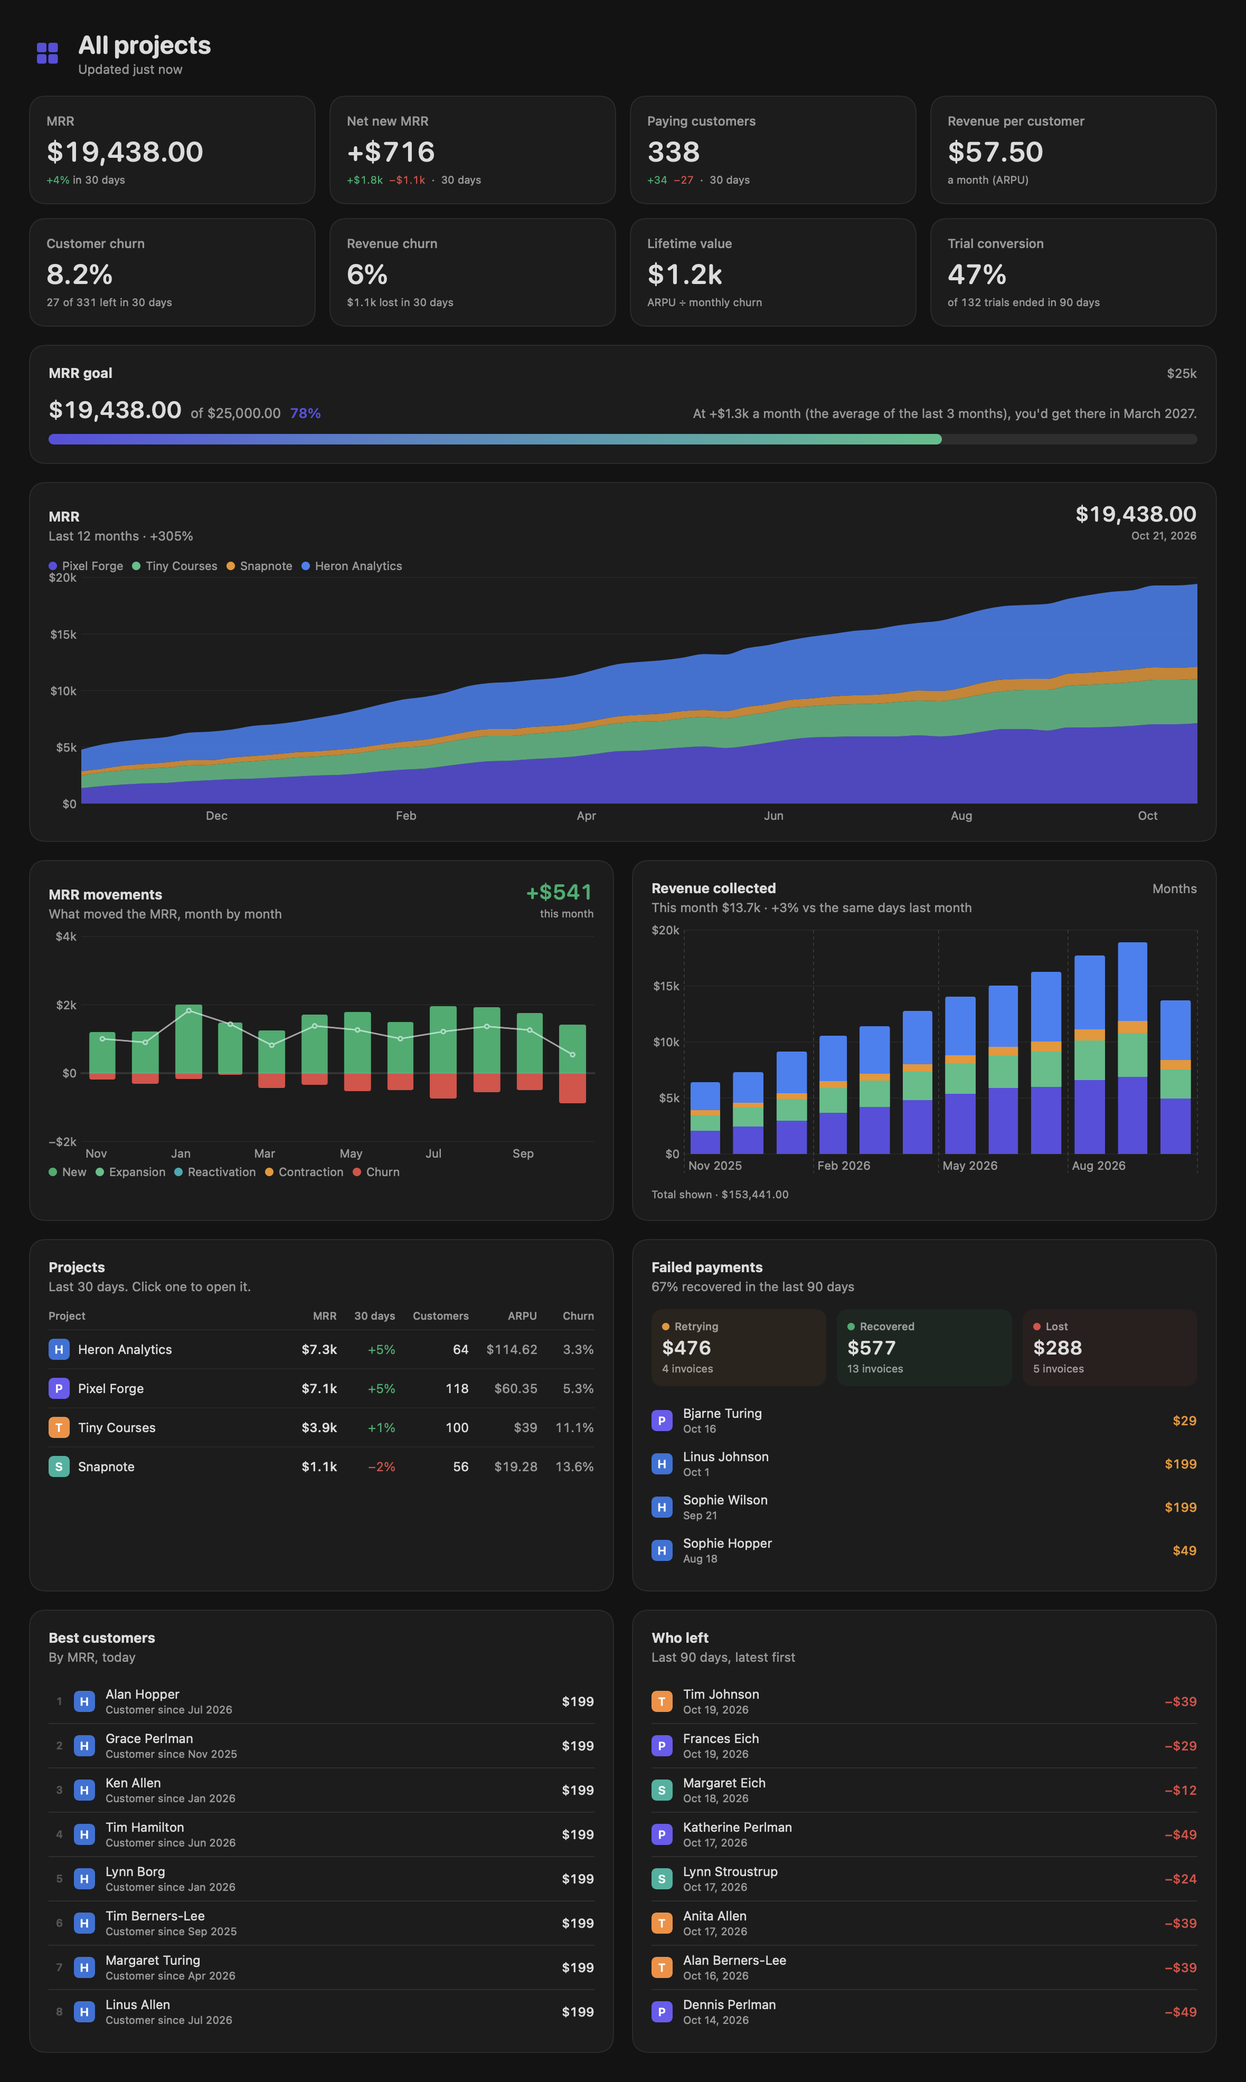
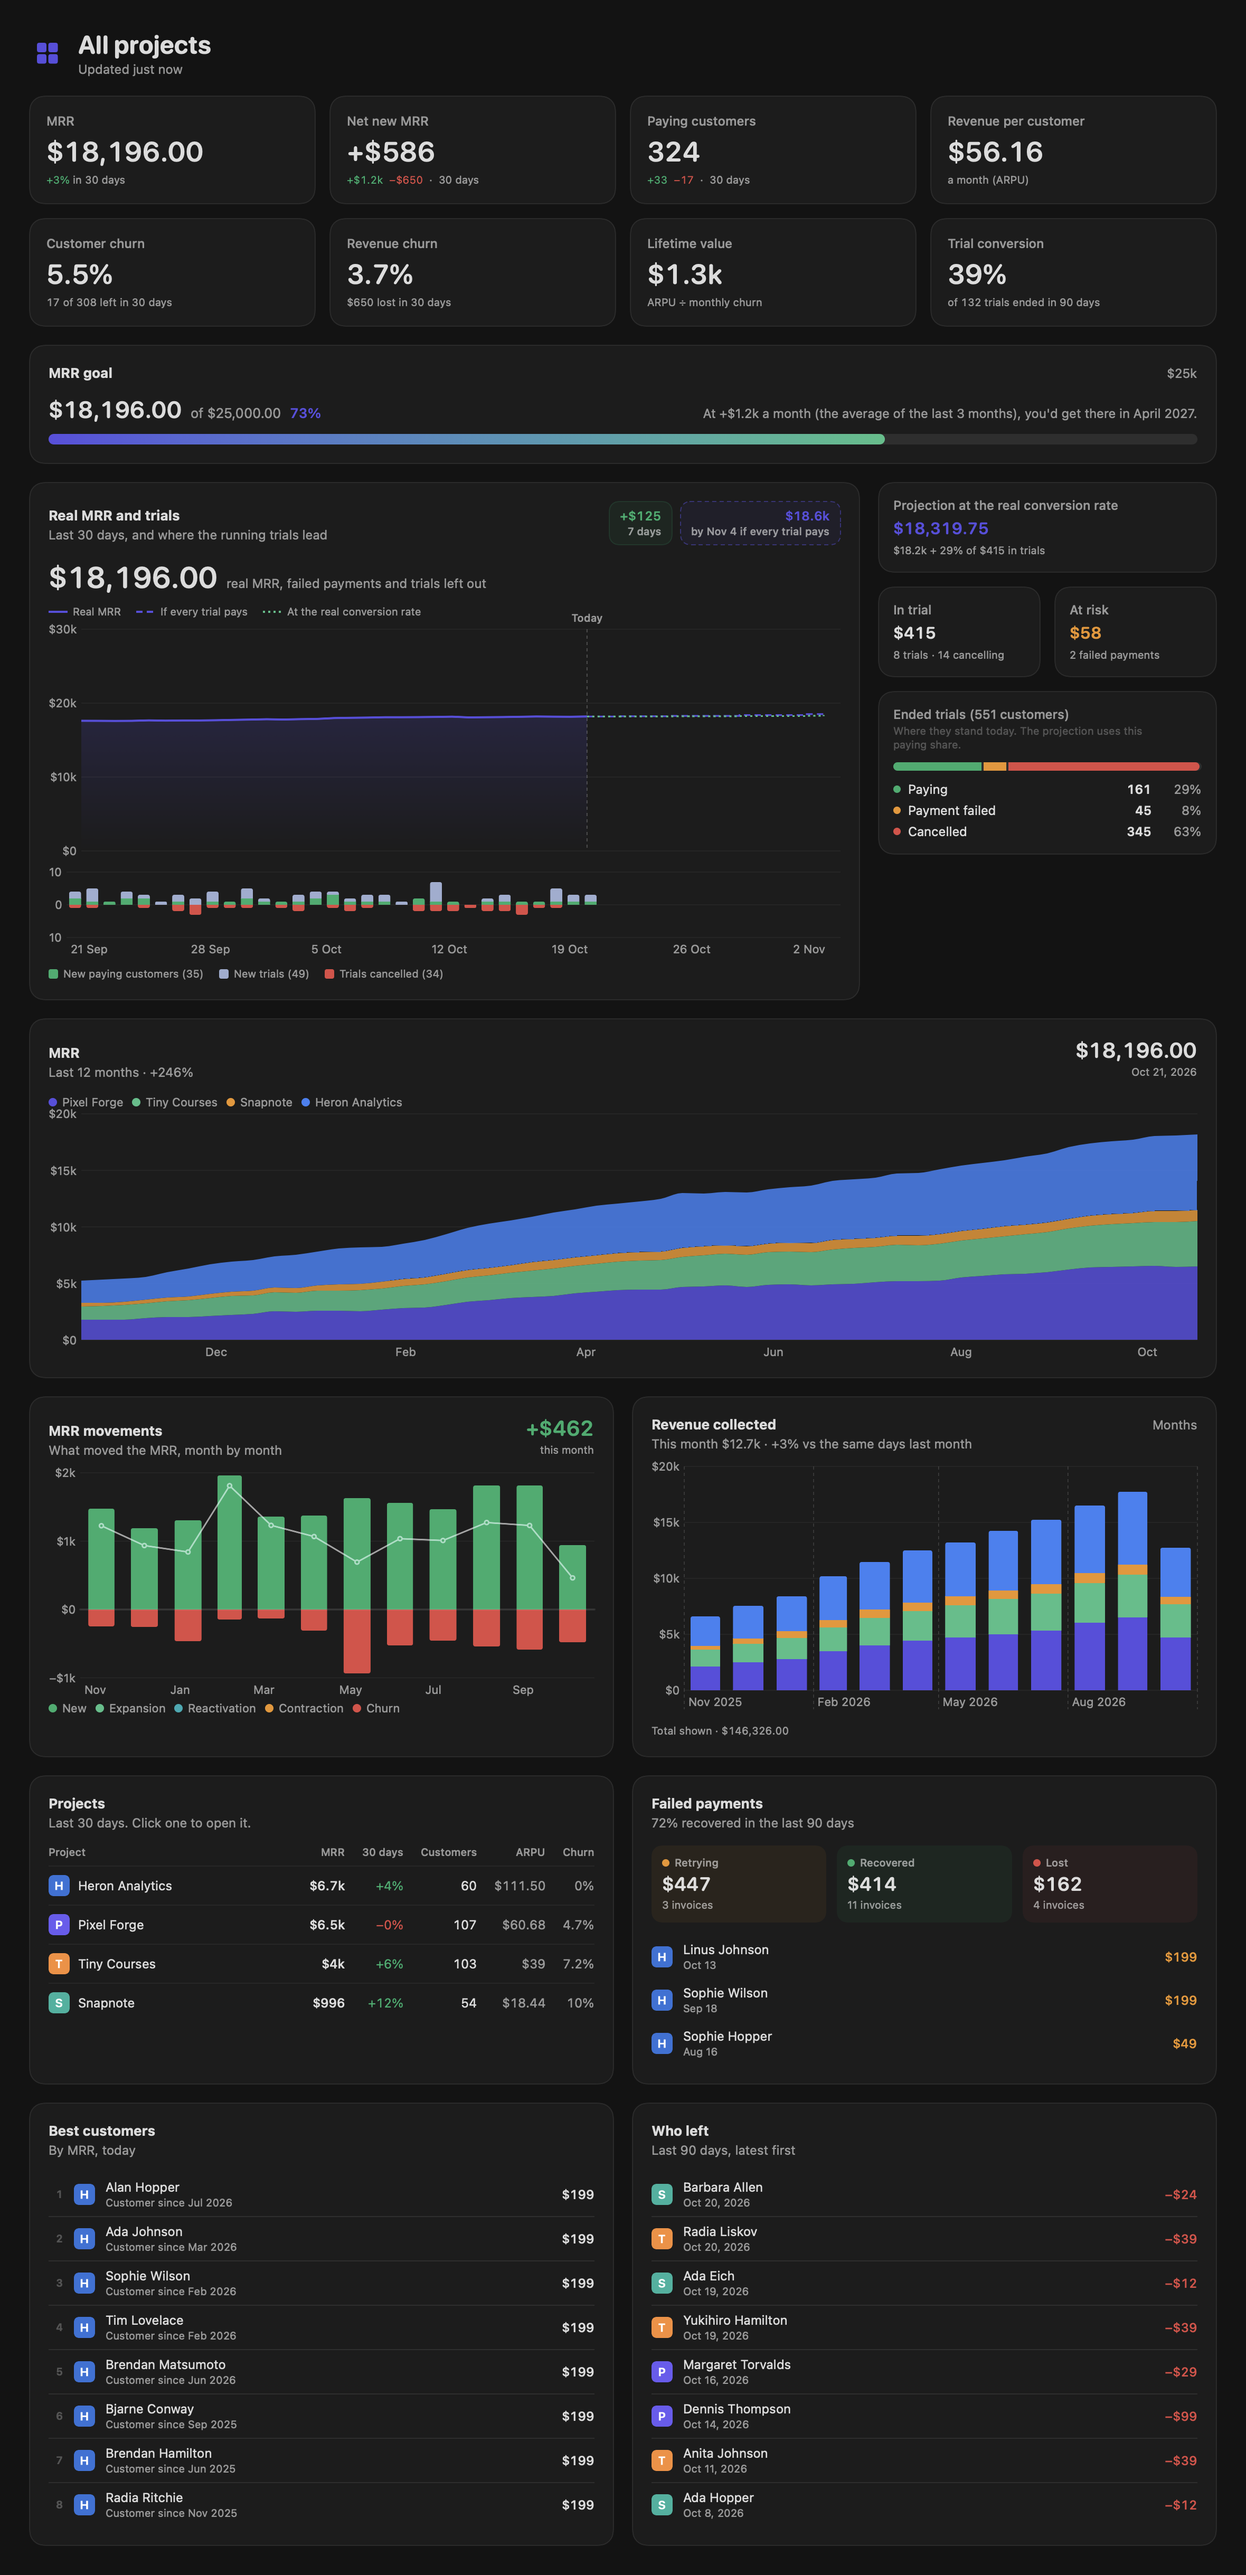
README: real MRR and trials in the dashboard section, new screenshots with consistent demo trials

diff --git a/Sources/Demo.swift b/Sources/Demo.swift
@@ -130,6 +130,14 @@ extension Model {
             let mrr = facts.filter { $0.pays(at: now) }.reduce(0) { $0 + $1.monthly }
             m.mrr[a.id] = ["usd": mrr]
             m.mrrDetail[a.id]?.real = ["usd": mrr]
+            // Trial outcomes from the same made-up subscriptions, so every figure agrees
+            let ended = facts.filter { ($0.trialEnd ?? .distantFuture) <= now }
+            let payingNow = ended.filter { $0.pays(at: now) }.count
+            let failedNow = ended.count / 12
+            m.mrrDetail[a.id]?.trialsEnded = ended.count
+            m.mrrDetail[a.id]?.trialsPaying = payingNow
+            m.mrrDetail[a.id]?.trialsFailed = failedNow
+            m.mrrDetail[a.id]?.trialsCancelled = max(0, ended.count - payingNow - failedNow)
         }
         m.prefs.goal = 25000
         m.dashboardUpdated = now

diff --git a/README.md b/README.md
@@ -35,6 +35,7 @@ Free, open source, no server. Your keys never leave your Mac.</p>
 
 Click the **Dashboard** card under today's figure (or press ⌘D), or a project, to open a full window that follows every project over time:
 
+- **Real MRR and trials:** the last 30 days day by day, then where your running trials lead, once if every trial pays and once at your real conversion rate, with each day's new trials, new payers and cancelled trials underneath.
 - **MRR over 3, 6 or 12 months**, all projects stacked or one at a time. Hover the chart to read any week.
 - **Where the MRR comes from and goes**, month by month: new customers, upgrades, returning customers, downgrades and cancellations, with the net change.
 - **The numbers that matter:** net new MRR, paying customers, revenue per customer, customer and revenue churn, lifetime value, trial conversion.
